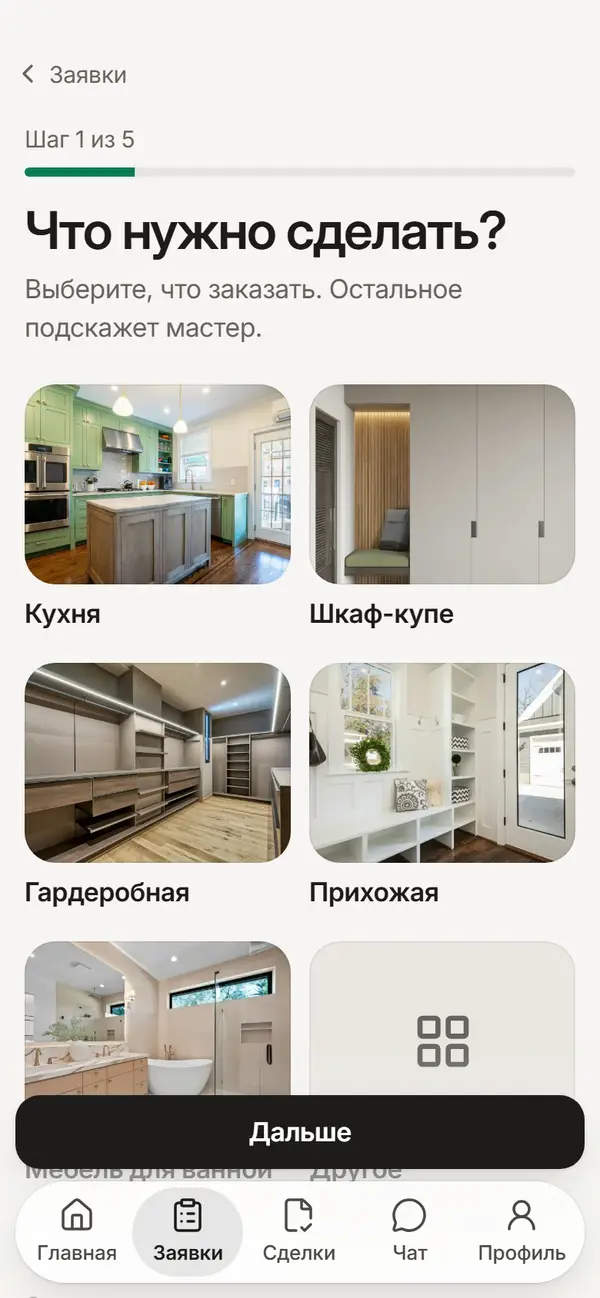
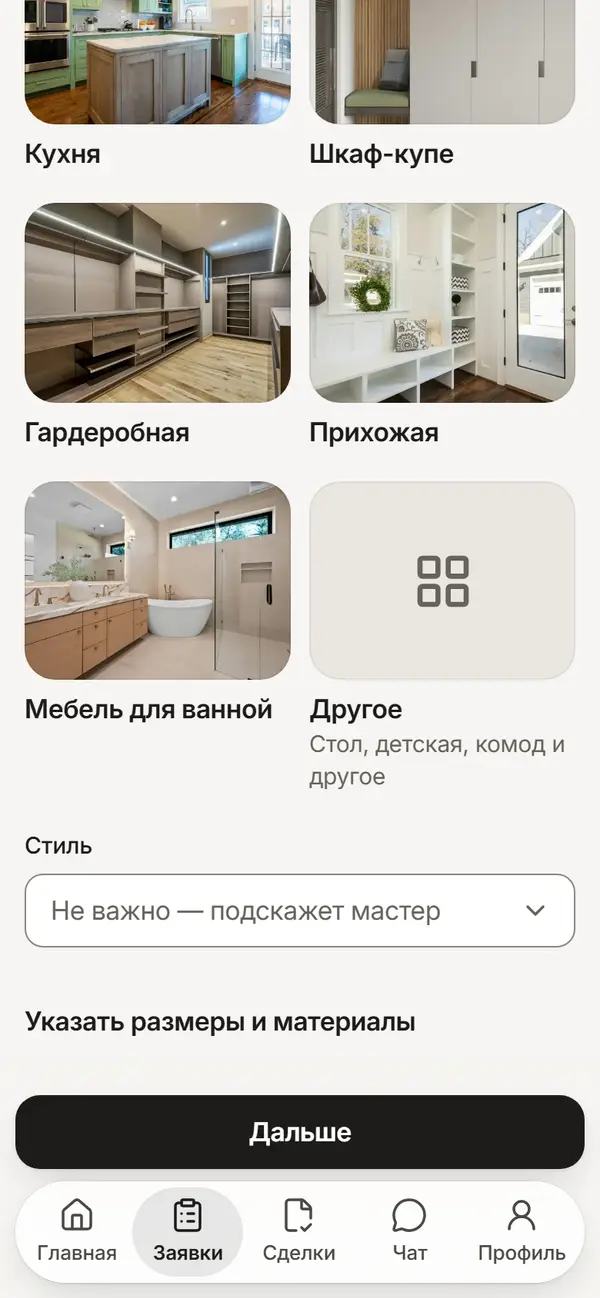
fix(web): лендинг на телефоне — тёмный раздел во всю ширину, док над ним, фото и шаги
Почему: повторный разбор (16.11, раздел 3.1, топ-10 п. 4, раздел 5 п. 3) нашёл ошибки
нового блока на телефоне: тёмный раздел «Где ваши деньги» шириной 358 px при окне
390 px (w-full + rail-bleed сдвигал, но не расширял), графитовая кнопка дока над ним
пропадала, подпись фото прилипала к капсуле, «Как это работает» читалось по два слова
в строке, а в снимке шага 1 кнопка «Дальше» закрывала подписи плиток.

Что:
- тёмный раздел на телефоне — без w-full: ширину за поля даёт растяжение в колонке;
- пока тёмный раздел под центром кнопки дока, главная кнопка инверсная (белая), а
  растворение под панелью — в тон раздела: шкала просмотра раздела, суженная до
  полосы центра кнопки (те же токены, что dock-above-bar), timeline-scope на корне
  оболочки; без шкал — светлая кромка кнопки;
- первый экран: заголовок 36 px (text-hero-mobile, не крупнее 11vw), сразу фото,
  капсула у нижнего края на scrim-photo, подпись фото — отдельно под фото справа,
  подзаголовок и ссылка мастера — под фото; scrim-photo-top больше не нужен;
- «Как это работает» на телефоне — столбиком: номер и заголовок, абзац, снимок 70 %;
- значки фактов — ink в круге fill (зелёный — только деньгам);
- снимок request-new переснят в конце страницы (под доком пусто), манифест обновлён.

Как проверено: tsc, eslint затронутого, vitest (главная гостя, landing, сторожа);
e2e guest и foundation (mobile, desktop) — 58 зелёных; снимки 390×844 (iPhone UA) и
[…]

diff --git a/apps/web/src/app/(app)/v2/_home/GuestLanding.tsx b/apps/web/src/app/(app)/v2/_home/GuestLanding.tsx
@@ -65,26 +65,29 @@ export function DesktopHero({ photo }: { photo: HeroPhoto }) {
 }
 
 /**
- * Первый экран телефона: название продукта, заголовок 40 px, подзаголовок, фото 4:5 со скруглением 24, у верхнего края
- * фото — капсула доверия и под ней подпись фото (на затемнении `scrim-photo-top`: у нижнего края их закрыли бы док и
- * панель вкладок на первом экране), ссылка мастера. Главная кнопка — в доке (GuestHome).
+ * Первый экран телефона: название продукта, заголовок (`text-hero-mobile` — 36 px, три строки на 390 px), сразу под ним
+ * фото 4:5 со скруглением 24 — капсула доверия у нижнего края фото на затемнении снизу (`scrim-photo`), подпись фото —
+ * отдельно, под фото справа, тихим текстом. Подзаголовок и ссылка мастера — под фото: на первом экране фото видно
+ * целиком над доком главной кнопки. Главная кнопка — в доке (GuestHome).
  */
 export function MobileHero({ photo }: { photo: HeroPhoto }) {
   return (
     <div className="flex flex-col gap-stack-section">
       <header className="flex flex-col gap-3">
         <p className="text-headline text-ink">{ru.common.brand}</p>
-        <h1 className="text-balance wrap-break-word text-display text-ink">{t.title}</h1>
-        <p className="text-body text-muted">{t.lead}</p>
+        <h1 className="text-balance text-hero-mobile text-ink">{t.title}</h1>
       </header>
-      <div className="photo-frame aspect-4/5 rounded-hero">
-        <Image src={photo.src} alt={photo.alt} fill preload sizes="100vw" className="object-cover" />
-        <div aria-hidden className="scrim-photo-top" />
-        <div className="absolute inset-x-3 top-3 flex flex-col items-start gap-2">
-          <TrustCapsule>{t.trustCapsule}</TrustCapsule>
-          <p className="px-4 text-small text-on-photo">{captionOf(photo)}</p>
+      <figure className="flex flex-col gap-2">
+        <div className="photo-frame aspect-4/5 rounded-hero">
+          <Image src={photo.src} alt={photo.alt} fill preload sizes="100vw" className="object-cover" />
+          <div aria-hidden className="scrim-photo" />
+          <div className="absolute inset-x-3 bottom-3 flex">
+            <TrustCapsule>{t.trustCapsule}</TrustCapsule>
+          </div>
         </div>
-      </div>
+        <figcaption className="self-end text-small text-muted">{captionOf(photo)}</figcaption>
+      </figure>
+      <p className="text-body text-muted">{t.lead}</p>
       <div>
         <TextLink href={loginHref("executor")}>{t.executorLink}</TextLink>
       </div>
@@ -95,8 +98,9 @@ export function MobileHero({ photo }: { photo: HeroPhoto }) {
 const FACT_ICONS = [Wallet, Landmark, HandCoins] as const;
 
 /**
- * Три факта под первым экраном — блоки с весом: карточка `surface`, значок 24 px в круге `accent-soft` (это факты о
- * деньгах — акцент уместен), значение 22 px (`title-2`), пояснение 17 px. Компьютер — три в ряд, телефон — столбиком.
+ * Три факта под первым экраном — блоки с весом: карточка `surface`, значок 24 px `ink` в круге `fill` (нейтрально:
+ * зелёный остаётся деньгам под защитой и прогрессу — разбор 2, раздел 5 п. 7), значение 22 px (`title-2`), пояснение
+ * 17 px. Компьютер — три в ряд, телефон — столбиком.
  */
 export function Facts() {
   return (
@@ -106,7 +110,7 @@ export function Facts() {
           const Icon = FACT_ICONS[index] ?? Wallet;
           return (
             <li key={fact.value} className="flex min-w-0 flex-wrap items-start gap-4 rounded-card bg-surface p-5 desktop:flex-col desktop:flex-nowrap desktop:p-7">
-              <span className="flex size-12 shrink-0 items-center justify-center rounded-full bg-accent-soft text-accent">
+              <span className="flex size-12 shrink-0 items-center justify-center rounded-full bg-fill text-ink">
                 <Icon aria-hidden className="size-6" />
               </span>
               {/* При крупном шрифте текст уходит под значок, а не за край экрана. */}
@@ -124,8 +128,9 @@ export function Facts() {
 
 /**
  * «Как это работает»: три шага, у каждого снимок нашего экрана в рамке телефона и номер шага крупно (40 px, muted;
- * для читалки — «Шаг N»), заголовок шага 22 px на компьютере. Компьютер — три колонки, рамка 19,5rem сверху (снимок
- * читается); телефон — строка: рамка слева, текст справа.
+ * для читалки — «Шаг N»), заголовок шага 22 px. Компьютер — три колонки, рамка 19,5rem сверху (снимок читается).
+ * Телефон — столбиком (разбор 2, 3.1): номер и заголовок в строку, абзац на всю ширину колонки, ниже снимок шириной
+ * 70 % по центру — текст читается строками, а не по два слова, и снимок крупнее.
  */
 export function Steps({ device, screens }: { device: Device; screens: LandingImage[] }) {
   return (
@@ -133,27 +138,23 @@ export function Steps({ device, screens }: { device: Device; screens: LandingIma
       <h2 id="landing-steps" className="text-title text-ink">
         {t.stepsTitle}
       </h2>
-      <ol className="grid gap-10 desktop:grid-cols-3 desktop:gap-8">
+      <ol className="grid gap-14 desktop:grid-cols-3 desktop:gap-8">
         {t.steps.map((step, index) => {
           const shot = screens[index];
           return (
-            <li key={step.title} className="flex flex-wrap gap-5 desktop:flex-col desktop:flex-nowrap desktop:gap-6">
-              {shot && (
-                <PhoneFrame
-                  {...shot}
-                  sizes={device === "desktop" ? "20rem" : "10rem"}
-                  className="w-40 desktop:mx-auto desktop:w-78"
-                />
-              )}
-              {/* Текст не уже 10rem: при крупном шрифте он уходит под рамку, а не за край экрана. */}
-              <div className="flex min-w-40 flex-1 flex-col gap-2 desktop:gap-3">
-                <p className="text-display text-muted">
-                  <span aria-hidden>{index + 1}</span>
-                  <span className="sr-only">{t.stepLabel(index + 1)}</span>
-                </p>
-                <h3 className="text-headline text-ink desktop:text-title-2">{step.title}</h3>
+            <li key={step.title} className="flex flex-col gap-6">
+              {shot && device === "desktop" && <PhoneFrame {...shot} sizes="20rem" className="mx-auto w-78" />}
+              <div className="flex min-w-0 flex-col gap-2 desktop:gap-3">
+                <div className="flex flex-wrap items-baseline gap-x-3 desktop:flex-col desktop:gap-3">
+                  <p className="text-display text-muted">
+                    <span aria-hidden>{index + 1}</span>
+                    <span className="sr-only">{t.stepLabel(index + 1)}</span>
+                  </p>
+                  <h3 className="min-w-0 text-title-2 text-ink">{step.title}</h3>
+                </div>
                 <p className="text-body text-ink">{step.text}</p>
               </div>
+              {shot && device === "mobile" && <PhoneFrame {...shot} sizes="70vw" className="mx-auto w-7/10" />}
             </li>
           );
         })}
@@ -168,13 +169,20 @@ const FLOW_ICONS = [UserRound, Landmark, Hammer] as const;
  * «Где ваши деньги» — единственный тёмный раздел, тёмный в обеих темах: роли цветов внутри — тёмной темы
  * (`data-theme="dark"` на разделе), фон `surface` тёмной темы. Слева схема «Вы → банк → мастер» с состояниями и три
  * абзаца с пояснением «Что такое защита сделки?», справа пример суммы крупными цифрами. От края до края: на компьютере —
- * во всю ширину области содержимого лендинга, на телефоне — за поля колонки (`rail-bleed`, внутри — те же поля).
+ * во всю ширину области содержимого лендинга (`w-full`), на телефоне — за поля колонки (`rail-bleed`, внутри — те же
+ * поля) без `w-full`: ширину по отрицательным полям даёт растяжение в колонке, а `width: 100%` оставил бы раздел шириной
+ * колонки, сдвинутым влево (разбор 2, 3.1). Метка `data-landing-money` — для дока над тёмным разделом (landing.css).
  */
 export function MoneySection({ device }: { device: Device }) {
   const money = computeDealMoney(EXAMPLE_PRICE_TIYN);
   const Arrow = device === "desktop" ? ArrowRight : ArrowDown;
   return (
-    <section data-theme="dark" aria-labelledby="landing-money" className="w-full bg-surface text-ink mobile:rail-bleed">
+    <section
+      data-theme="dark"
+      data-landing-money
+      aria-labelledby="landing-money"
+      className="bg-surface text-ink desktop:w-full mobile:rail-bleed"
+    >
       <div className="mx-auto grid w-full max-w-content gap-10 py-14 desktop:grid-cols-split desktop:gap-16 desktop:px-6 desktop:py-24">
         <div className="flex min-w-0 flex-col gap-8">
           <h2 id="landing-money" className="wrap-break-word text-title text-ink">

diff --git a/apps/web/src/app/(app)/v2/_home/GuestHome.test.tsx b/apps/web/src/app/(app)/v2/_home/GuestHome.test.tsx
@@ -46,7 +46,7 @@ describe("главная гостя (лендинг)", () => {
         const capsule = tagWith(out, "glass-clear");
         expect(capsule).not.toBe("");
         expect(out.slice(out.indexOf(capsule))).toContain(t.trustCapsule);
-        expect(out).toMatch(/class="(scrim-hero|scrim-photo-top)"/);
+        expect(out).toMatch(/class="(scrim-hero|scrim-photo)"/);
       });
 
       it("ниже первого экрана по порядку: факты, «Как это работает», «Где ваши деньги», работы, «Помощь», подвал", () => {
@@ -125,38 +125,67 @@ describe("главная гостя (лендинг)", () => {
     const out = html(<GuestHome device="desktop" />);
     const columns = out.match(/<div class="mx-auto flex w-full max-w-content flex-col gap-24 px-6">/g) ?? [];
     expect(columns).toHaveLength(2);
-    expect(hasClass(tagWith(out, 'data-theme="dark"'), "w-full")).toBe(true);
+    expect(hasClass(tagWith(out, 'data-theme="dark"'), "desktop:w-full")).toBe(true);
   });
 
-  it("факты — блоки с весом: карточка, значок 24 px, значение title-2, пояснение 17 px", () => {
-    const out = html(<GuestHome device="desktop" />);
-    for (const fact of t.facts) {
-      expect(out).toContain(`<p class="text-title-2 text-ink">${fact.value}</p>`);
-      expect(out).toContain(`<p class="text-body text-muted">${fact.note}</p>`);
+  it("факты — блоки с весом: карточка, значок 24 px ink в нейтральном круге (зелёный — деньгам), значение title-2, пояснение 17 px", () => {
+    for (const device of ["mobile", "desktop"] as const) {
+      const out = html(<GuestHome device={device} />);
+      for (const fact of t.facts) {
+        expect(out).toContain(`<p class="text-title-2 text-ink">${fact.value}</p>`);
+        expect(out).toContain(`<p class="text-body text-muted">${fact.note}</p>`);
+      }
+      expect(count(out, "rounded-card bg-surface p-5")).toBe(3);
+      const facts = out.slice(out.indexOf(`aria-label="${t.factsLabel}"`), out.indexOf(`>${t.stepsTitle}</h2>`));
+      expect(count(facts, "rounded-full bg-fill text-ink")).toBe(3);
+      expect(facts).not.toMatch(/accent/);
     }
-    expect(count(out, "rounded-card bg-surface p-5")).toBe(3);
   });
 
-  it("шаги на компьютере: рамка телефона 19,5rem, заголовок шага 22 px", () => {
+  it("шаги на компьютере: рамка телефона 19,5rem сверху, заголовок шага 22 px", () => {
     const out = html(<GuestHome device="desktop" />);
-    expect(count(out, "desktop:w-78")).toBe(3);
+    expect(count(out, "mx-auto w-78")).toBe(3);
     expect(count(out, 'sizes="20rem"')).toBe(3);
-    for (const step of t.steps) expect(out).toContain(`<h3 class="text-headline text-ink desktop:text-title-2">${step.title}</h3>`);
+    for (const step of t.steps) expect(out).toContain(`<h3 class="min-w-0 text-title-2 text-ink">${step.title}</h3>`);
+    const steps = out.slice(out.indexOf(`>${t.stepsTitle}</h2>`));
+    expect(steps.indexOf("phone-frame")).toBeLessThan(steps.indexOf(`>${t.steps[0].title}</h3>`));
   });
 
-  it("телефон: название продукта над заголовком 40 px, фото 4:5 со скруглением 24, капсула и подпись фото у верхнего края; кнопка — в доке последней", () => {
+  it("шаги на телефоне — столбиком: номер и заголовок, абзац на всю ширину, ниже снимок 70 % по центру", () => {
+    const out = html(<GuestHome device="mobile" />);
+    expect(count(out, "mx-auto w-7/10")).toBe(3);
+    expect(count(out, 'sizes="70vw"')).toBe(3);
+    const steps = out.slice(out.indexOf(`>${t.stepsTitle}</h2>`));
+    for (const [i, step] of t.steps.entries()) {
+      const at = steps.indexOf(`>${step.title}</h3>`);
+      const body = steps.indexOf(`>${step.text}</p>`);
+      const shot = steps.indexOf(`alt="${t.stepShots[i]}"`);
+      expect(at).toBeGreaterThan(-1);
+      expect(at).toBeLessThan(body);
+      expect(body).toBeLessThan(shot);
+    }
+  });
+
+  it("телефон: название продукта над заголовком 36 px, сразу фото 4:5 со скруглением 24, капсула у нижнего края фото, подпись — отдельно под фото; подзаголовок под фото; кнопка — в доке последней", () => {
     const out = html(<GuestHome device="mobile" />);
     expect(out.indexOf(`>${ru.common.brand}</p>`)).toBeLessThan(out.indexOf("<h1"));
-    expect(hasClass(out.match(/<h1[^>]*>/)?.[0] ?? "", "text-display")).toBe(true);
+    const h1 = out.match(/<h1[^>]*>/)?.[0] ?? "";
+    expect(hasClass(h1, "text-hero-mobile")).toBe(true);
+    expect(hasClass(h1, "wrap-break-word")).toBe(false);
     const photo = tagWith(out, "aspect-4/5");
     expect(hasClass(photo, "rounded-hero")).toBe(true);
     expect(hasClass(photo, "photo-frame")).toBe(true);
-    // Подпись фото — внутри фото у верхнего края, под капсулой (под фото её закрыла бы панель вкладок).
-    const top = out.slice(out.indexOf("scrim-photo-top"));
-    expect(top.indexOf(t.trustCapsule)).toBeLessThan(top.indexOf(t.photoCaption.temporary));
-    expect(top).toContain(`<p class="px-4 text-small text-on-photo">${t.photoCaption.temporary}</p>`);
-    // Тёмный раздел — за поля колонки.
-    expect(hasClass(tagWith(out, 'data-theme="dark"'), "mobile:rail-bleed")).toBe(true);
+    // Капсула — у нижнего края фото над затемнением снизу; подпись — не на фото, а под ним справа, тихим текстом.
+    const frame = out.slice(out.indexOf(photo));
+    expect(frame.indexOf('class="scrim-photo"')).toBeLessThan(frame.indexOf(t.trustCapsule));
+    expect(frame).toContain('<div class="absolute inset-x-3 bottom-3 flex">');
+    expect(out).toContain(`<figcaption class="self-end text-small text-muted">${t.photoCaption.temporary}</figcaption>`);
+    expect(out.indexOf(photo)).toBeLessThan(out.indexOf(`>${t.lead}</p>`));
+    // Тёмный раздел — за поля колонки, растяжением без w-full (иначе он шириной колонки, сдвинутый влево).
+    const dark = tagWith(out, 'data-theme="dark"');
+    expect(hasClass(dark, "mobile:rail-bleed")).toBe(true);
+    expect(hasClass(dark, "w-full")).toBe(false);
+    expect(dark).toContain("data-landing-money");
     const dock = out.slice(out.indexOf("data-action-dock"));
     expect(count(dock, "<a ")).toBe(1);
     expect(dock).toContain("data-primary-action");

diff --git a/apps/web/src/kit/landing.css b/apps/web/src/kit/landing.css
@@ -8,6 +8,14 @@
   --container-hero: 46rem; /* колонка текста первого экрана на компьютере: заголовок 64px в 3 строки */
   --container-lead: 34ch; /* подзаголовок первого экрана: не шире 34 знаков */
   --container-help: 42.5rem; /* «Помощь» на лендинге: колонка 680px */
+  /*
+   * Заголовок первого экрана на телефоне — 36px / 600 (три строки на 390px, фото начинается выше). Не крупнее 11vw:
+   * при шрифте 200 % слово целиком помещается в строку (без разрыва посередине), а не растёт до 72px за край экрана.
+   */
+  --text-hero-mobile: min(2.25rem, 11vw);
+  --text-hero-mobile--line-height: 1.08;
+  --text-hero-mobile--letter-spacing: -0.03em;
+  --text-hero-mobile--font-weight: 600;
   --radius-hero: 1.5rem; /* 24px — фото первого экрана на телефоне */
   --radius-phone: 2.75rem; /* 44px — рамка телефона со снимком экрана */
   --radius-phone-screen: calc(var(--radius-phone) - var(--spacing-phone-bezel)); /* концентрично рамке */
@@ -126,22 +134,62 @@
 }
 
 /*
- * Затемнение фото от верхнего края — для капсулы у верхнего края фото первого экрана на телефоне (у нижнего края её
- * закрыли бы док главной кнопки и панель вкладок). Как scrim-photo, только сверху: плато 55% на верхнюю четверть
- * (белый на белом фото — 4,74:1), к 60% высоты — прозрачно. При увеличении контраста — 70%.
+ * Док главной кнопки телефона над тёмным разделом «Где ваши деньги» (разбор 2, 3.1): графитовая кнопка на почти чёрном
+ * разделе пропадает. Пока раздел стоит под центром кнопки, кнопка инверсная — белая с графитовым текстом, как
+ * `variant="inverse"` на фото; подложка-растворение оболочки (`bar-underlay`) над тёмным разделом растворяет его в тон
+ * раздела (почти чёрный: scrim с 11 % on-photo ≈ surface тёмной темы), а не светлым туманом canvas — белые строки
+ * раздела не просвечивают сквозь панель вкладок.
+ *
+ * Как: у раздела именованная шкала просмотра `--landing-money`, суженная (`view-timeline-inset`) до полосы на высоте
+ * центра кнопки дока — её положение считается теми же токенами, что `dock-above-bar`. Шкала видна всей оболочке
+ * (`timeline-scope` на корне оболочки телефона), анимация без заливки (`fill-mode: none`) действует только пока раздел
+ * пересекает эту полосу. Цвета — роли; ни прозрачности, ни движения: переключение мгновенное (reduced-motion не нужен).
+ * Без шкал просмотра (старые браузеры) — светлая кромка вокруг кнопки на лендинге: край кнопки виден и над тёмным.
  */
-@utility scrim-photo-top {
-  position: absolute;
-  inset: 0;
-  pointer-events: none;
-  background: linear-gradient(
-    to bottom,
-    color-mix(in srgb, var(--role-scrim) var(--scrim-photo-alpha), transparent) 0%,
-    color-mix(in srgb, var(--role-scrim) var(--scrim-photo-alpha), transparent) 25%,
-    transparent 60%
-  );
-  @media (prefers-contrast: more) {
-    --scrim-photo-alpha: 70%;
+:where([data-mobile-shell]:has([data-landing-money])) {
+  timeline-scope: --landing-money;
+}
+
+@supports (view-timeline-name: --a) and (timeline-scope: --a) {
+  [data-landing-money] {
+    view-timeline: --landing-money block;
+    view-timeline-inset: calc(100% - var(--landing-dock-center)) var(--landing-dock-center);
+    --landing-dock-center: calc(
+      var(--spacing-bar-inset) + env(safe-area-inset-bottom) + var(--tab-bar-space, 0px) + var(--spacing-control) / 2
+    );
+  }
+  [data-mobile-shell]:has([data-landing-money]) [data-action-dock] [data-primary-action] {
+    animation: landing-dock-over-dark linear none;
+    animation-timeline: --landing-money;
+    animation-range: cover 0% cover 100%;
+  }
+  [data-mobile-shell]:has([data-landing-money]) > .bar-underlay {
+    animation: landing-underlay-over-dark linear none;
+    animation-timeline: --landing-money;
+    animation-range: cover 0% cover 100%;
+  }
+}
+
+@supports not ((view-timeline-name: --a) and (timeline-scope: --a)) {
+  [data-mobile-shell]:has([data-landing-money]) [data-action-dock] [data-primary-action] {
+    box-shadow:
+      0 0 0 1px color-mix(in srgb, var(--role-on-photo) 22%, transparent),
+      var(--elev-float);
+  }
+}
+
+@keyframes landing-dock-over-dark {
+  from,
+  to {
+    background-color: var(--role-on-photo);
+    color: var(--role-on-inverse);
+  }
+}
+
+@keyframes landing-underlay-over-dark {
+  from,
+  to {
+    --role-canvas: color-mix(in srgb, var(--role-scrim) 89%, var(--role-on-photo));
   }
 }
 

diff --git a/apps/web/src/kit/landing.test.tsx b/apps/web/src/kit/landing.test.tsx
@@ -46,9 +46,30 @@ describe("landing.css: контраст белого текста на фото"
     expect(stacked(percent(more, "hero-scrim-base"), percent(more, "hero-scrim-zone"))).toBeGreaterThan(stacked(base, zone));
   });
 
-  it("scrim-photo-top (капсула у верхнего края фото на телефоне) — то же плато, что scrim-photo: ≥ 4,5:1", () => {
-    expect(css).toMatch(/@utility scrim-photo-top[\s\S]*var\(--scrim-photo-alpha\)[\s\S]*25%/);
+  it("капсула у нижнего края фото на телефоне — на scrim-photo: ≥ 4,5:1 над белым фото", () => {
+    expect(css).not.toContain("scrim-photo-top");
     expect(whiteOnDimmedWhite(percent(tokens, "scrim-photo-alpha"))).toBeGreaterThanOrEqual(4.5);
+  });
+
+  it("док над тёмным разделом на телефоне: шкала просмотра раздела в полосе центра кнопки, кнопка инверсная, растворение в тон раздела; без шкал — светлая кромка", () => {
+    expect(css).toMatch(/\[data-mobile-shell\]:has\(\[data-landing-money\]\)\) \{\s*timeline-scope: --landing-money;/);
+    const scroll = css.slice(css.indexOf("@supports (view-timeline-name"), css.indexOf("@supports not"));
+    expect(scroll).toMatch(/view-timeline: --landing-money block;/);
+    expect(scroll).toMatch(/view-timeline-inset: calc\(100% - var\(--landing-dock-center\)\) var\(--landing-dock-center\);/);
+    // Центр кнопки — теми же токенами, что dock-above-bar.
+    expect(scroll).toMatch(
+      /--landing-dock-center: calc\(\s*var\(--spacing-bar-inset\) \+ env\(safe-area-inset-bottom\) \+ var\(--tab-bar-space, 0px\) \+ var\(--spacing-control\) \/ 2/,
+    );
+    expect(scroll).toMatch(/\[data-action-dock\] \[data-primary-action\] \{\s*animation: landing-dock-over-dark linear none;\s*animation-timeline: --landing-money;/);
+    expect(scroll).toMatch(/> \.bar-underlay \{\s*animation: landing-underlay-over-dark linear none;/);
+    const frames = css.slice(css.indexOf("@keyframes landing-dock-over-dark"));
+    expect(frames).toMatch(/background-color: var\(--role-on-photo\);\s*color: var\(--role-on-inverse\);/);
+    expect(css.slice(css.indexOf("@keyframes landing-underlay-over-dark"))).toMatch(/--role-canvas: color-mix\(in srgb, var\(--role-scrim\) 89%, var\(--role-on-photo\)\);/);
+    expect(css.slice(css.indexOf("@supports not"))).toMatch(/\[data-primary-action\] \{\s*box-shadow:/);
+  });
+
+  it("заголовок первого экрана на телефоне — 36 px, не крупнее 11vw (шрифт 200 %: слово целиком в строке)", () => {
+    expect(css).toMatch(/--text-hero-mobile: min\(2\.25rem, 11vw\);/);
   });
 
   it("шапка над первым экраном прозрачна только в самом верху и только там, где есть анимация по прокрутке; не при уменьшении прозрачности и увеличении контраста", () => {
